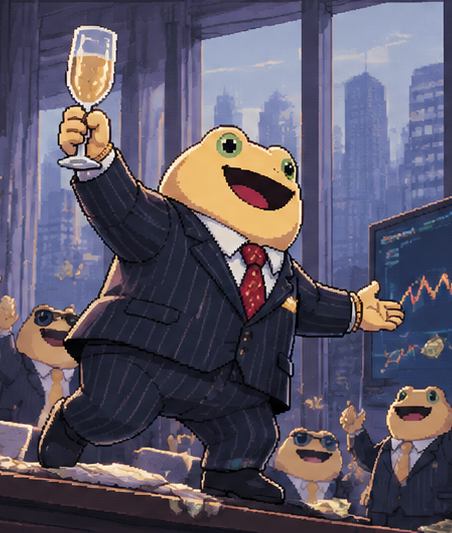
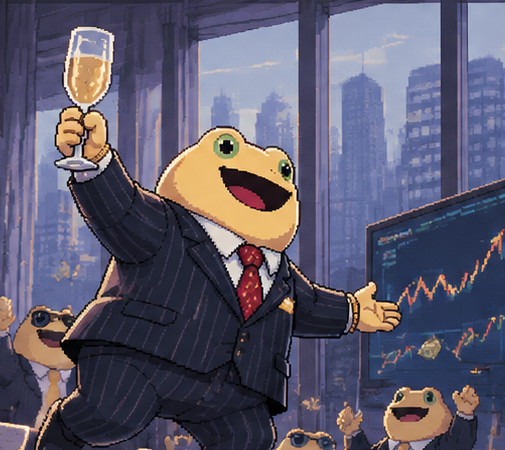
统一选人卡面尺寸并精简主角二被动说明

diff --git a/Assets/Echoes/Scripts/UI/TitleMenu.cs b/Assets/Echoes/Scripts/UI/TitleMenu.cs
@@ -50,7 +50,6 @@ namespace Echoes
         }
 
         private static readonly Color Paper = new Color32(250, 239, 211, 255);
-        private static readonly Color Muted = new Color32(181, 183, 175, 255);
         private static readonly Color Brass = new Color32(230, 180, 102, 255);
         private static readonly Color Mint = new Color32(132, 217, 201, 255);
         private static readonly Color Rule = new Color32(74, 80, 77, 255);
@@ -84,7 +83,9 @@ namespace Echoes
             bool runner = hero == Hero.Runner;
             string name = runner ? "主角二" : "主角一";
             Color accent = runner ? Mint : Brass;
-            var card = Rect(name, panel, runner ? .407f : .075f, .105f, runner ? .925f : .387f, .763f);
+            const float cardWidth = .415f;
+            float left = runner ? .51f : .075f;
+            var card = Rect(name, panel, left, .105f, left + cardWidth, .763f);
             var button = MakeButton(card, () => begin(hero));
             var colors = button.colors;
             colors.normalColor = Rule;
@@ -93,15 +94,12 @@ namespace Echoes
             button.colors = colors;
 
             var body = Rect("卡面", card, .006f, .006f, .994f, .994f);
-            Fill(body, new Color32(19, 36, 38, 255));
-            float imageBottom = runner ? .315f : 0f;
-            var portrait = Rect("角色原画", body, 0, imageBottom, 1, 1).gameObject.AddComponent<RawImage>();
+            var portrait = body.gameObject.AddComponent<RawImage>();
             portrait.texture = Resources.Load<Texture2D>(runner ? "SelectRunner" : "SelectExplorer");
             portrait.raycastTarget = false;
 
             // Keep the in-game likeness visible on both illustrations.
-            var badge = Rect("精灵底板", body, .022f, imageBottom + .018f,
-                runner ? .114f : .175f, imageBottom + .148f);
+            var badge = Rect("精灵底板", body, .022f, .024f, .138f, .154f);
             Fill(badge, new Color32(14, 22, 25, 226));
             var icon = Rect("游戏内形象", badge, .06f, .04f, .94f, .96f).gameObject.AddComponent<Image>();
             icon.sprite = GameArt.Get(GameArt.PlayerKind(hero));
@@ -110,11 +108,10 @@ namespace Echoes
 
             if (runner)
             {
-                Fill(Rect("画框", body, 0, imageBottom - .006f, 1, imageBottom), Mint);
-                CardLabel(Rect("能力", body, .04f, .181f, .97f, .291f), "移速转伤害", 40, Mint);
+                var caption = Rect("说明底板", body, .138f, .024f, .978f, .154f);
+                Fill(caption, new Color32(14, 22, 25, 236));
                 string conversion = $"每 1% 永久移速加成，伤害 +{config.runnerSpeedConversion:0.##}%，上限 +{config.runnerMaxDamageBonus:0%}";
-                CardLabel(Rect("被动", body, .04f, .101f, .97f, .183f), conversion, 25, Paper);
-                CardLabel(Rect("开局特点", body, .04f, .018f, .97f, .094f), "初始移速高，生命与起始伤害低", 21, Muted);
+                CardLabel(Rect("被动", caption, .022f, .08f, .976f, .92f), conversion, 24, Paper);
             }
             return button;
         }

diff --git a/Docs/117-选人卡面对称排版.md b/Docs/117-选人卡面对称排版.md
@@ -1,0 +1,12 @@
+# 117 选人卡面对称排版
+
+两名角色各占相同宽度的卡面。原画采用相同裁切比例，边框、上下边线和左下角实战头像对齐。主角二的头像右侧只保留一行永久移速转伤害的比例与上限。
+
+## 相关文件与配置
+
+- `TitleMenu.cs` 的 HeroCard 负责卡面尺寸、头像位置与被动说明，换算系数和上限取自 Opening 场景的 GameConfig。
+- `Assets/Echoes/Resources/SelectExplorer.png` 与 `SelectRunner.png` 分别从两张角色设定图取景，尺寸均为 505 × 450，沿用原有资源引用。
+
+## 验证
+
+运行 Unity PlayMode 的 OpeningCinematicTests，检查返回标题与分别选人进入第一层。在 1600 × 900 截图中检查卡面边缘、头像基线和单行被动说明；其他分辨率未单独截图。[实机画面](Images/117-对称选人卡面.png)
